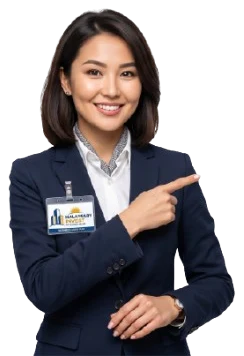
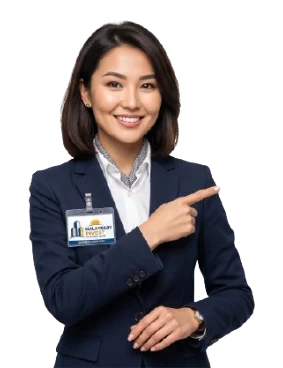
feat: добавить идентификатор для блока hero в компоненте HomePage, обновить логику воспроизведения видео в компоненте BrandFilm и изменить разметку в компоненте ConsultationBanner для улучшения адаптивности

Changed region(s): [[0.0287, 0.0, 0.9754, 1.0], [0.4303, 0.7416, 0.5451, 0.7725]]

diff --git a/components/BrandFilm.tsx b/components/BrandFilm.tsx
@@ -61,6 +61,7 @@ export default function BrandFilm({
   const sectionRef = useRef<HTMLElement>(null);
   const canvasRef = useRef<HTMLCanvasElement>(null);
   const overlayRef = useRef<HTMLDivElement>(null);
+  const videoRef = useRef<HTMLVideoElement>(null);
   const isMobile = useMobileViewport();
 
   const loaderRef = useRef<ReturnType<typeof createSlidingFrameLoader> | null>(null);
@@ -100,6 +101,66 @@ export default function BrandFilm({
     if (!ready || !mobile) return;
     window.dispatchEvent(new CustomEvent("brandfilm:progress", { detail: 1 }));
     window.dispatchEvent(new CustomEvent("brandfilm:ready"));
+  }, [ready, mobile]);
+
+  // После полного проигрыша — плавно листаем на следующий экран,
+  // если человек сам ещё не свайпнул.
+  useEffect(() => {
+    if (!ready || !mobile) return;
+    const video = videoRef.current;
+    if (!video) return;
+
+    let cancelled = false;
+    let userMoved = false;
+    let scrollTimer = 0;
+    let playTimer = 0;
+
+    const playFromStart = () => {
+      if (cancelled || userMoved) return;
+      video.currentTime = 0;
+      video.play().catch(() => {});
+    };
+
+    const onPreloaderDone = () => {
+      // Ждём, пока занавес уедет (~0.9s), и только потом крутим ролик.
+      playTimer = window.setTimeout(playFromStart, 900);
+    };
+    window.addEventListener("preloader:done", onPreloaderDone, { once: true });
+    const fallback = window.setTimeout(playFromStart, 5000);
+
+    const markMoved = () => {
+      if (window.scrollY > 40) userMoved = true;
+    };
+    window.addEventListener("scroll", markMoved, { passive: true });
+    window.addEventListener("wheel", markMoved, { passive: true });
+
+    const onEnded = () => {
+      if (cancelled || userMoved) return;
+      if (window.scrollY > 40) return;
+      if (window.matchMedia("(prefers-reduced-motion: reduce)").matches) return;
+
+      scrollTimer = window.setTimeout(() => {
+        if (cancelled || userMoved || window.scrollY > 40) return;
+        const next =
+          document.getElementById("hero") ??
+          sectionRef.current?.closest("#top")?.nextElementSibling;
+        if (next instanceof HTMLElement) {
+          next.scrollIntoView({ behavior: "smooth", block: "start" });
+        }
+      }, 240);
+    };
+    video.addEventListener("ended", onEnded);
+
+    return () => {
+      cancelled = true;
+      window.clearTimeout(fallback);
+      window.clearTimeout(playTimer);
+      window.clearTimeout(scrollTimer);
+      window.removeEventListener("preloader:done", onPreloaderDone);
+      window.removeEventListener("scroll", markMoved);
+      window.removeEventListener("wheel", markMoved);
+      video.removeEventListener("ended", onEnded);
+    };
   }, [ready, mobile]);
 
   useEffect(() => {
@@ -319,13 +380,12 @@ export default function BrandFilm({
               />
             )}
             <video
+              ref={videoRef}
               className="absolute inset-0 z-[1] h-full w-full object-cover"
               src={videoSrcMobile.replace(/\.mp4$/, "-mobile.mp4")}
               poster={videoPoster}
               muted
-              loop
               playsInline
-              autoPlay
               preload="auto"
               disablePictureInPicture
             />

diff --git a/components/ConsultationBanner.tsx b/components/ConsultationBanner.tsx
@@ -11,17 +11,17 @@ export default function ConsultationBanner() {
       <div className="mx-auto max-w-5xl">
         <RevealOnView variant="zoom" delay={200}>
           <div className="relative overflow-hidden rounded-[32px] border border-bone/10 bg-ink-panel">
-            <div className="flex flex-col md:flex-row md:items-stretch">
-              <div className="relative mx-auto h-72 w-56 shrink-0 sm:h-80 sm:w-64 md:mx-0 md:h-auto md:min-h-[360px] md:w-[300px] lg:w-[340px]">
+            <div className="flex flex-col items-center md:flex-row md:items-end">
+              <div className="relative z-10 w-[220px] shrink-0 pt-8 sm:w-[260px] md:w-[300px] md:pt-6 lg:w-[340px]">
                 <img
                   src="/consult-character.webp"
                   alt=""
-                  className="pointer-events-none absolute inset-x-0 bottom-0 mx-auto h-[118%] w-auto max-w-none select-none object-contain object-bottom md:left-0 md:mx-0 md:h-[108%]"
+                  className="mx-auto block h-auto w-full select-none object-contain object-bottom"
                   draggable={false}
                 />
               </div>
 
-              <div className="relative z-10 flex flex-1 flex-col items-center justify-center gap-7 px-8 pb-10 pt-2 text-center sm:px-12 md:py-12">
+              <div className="relative z-10 flex flex-1 flex-col items-center justify-center gap-7 px-8 pb-10 pt-6 text-center sm:px-12 md:py-12">
                 <div className="max-w-md">
                   <h3 className="font-display text-xl font-semibold leading-tight text-bone sm:text-2xl">
                     {t("consult.title")}

diff --git a/app/[lang]/page.tsx b/app/[lang]/page.tsx
@@ -43,7 +43,7 @@ export default async function HomePage({ params }: { params: Promise<{ lang: str
       </div>
 
       {/* ---------- HERO ---------- */}
-      <div>
+      <div id="hero">
         <HeroVideo src="/video/1" />
       </div>
 
